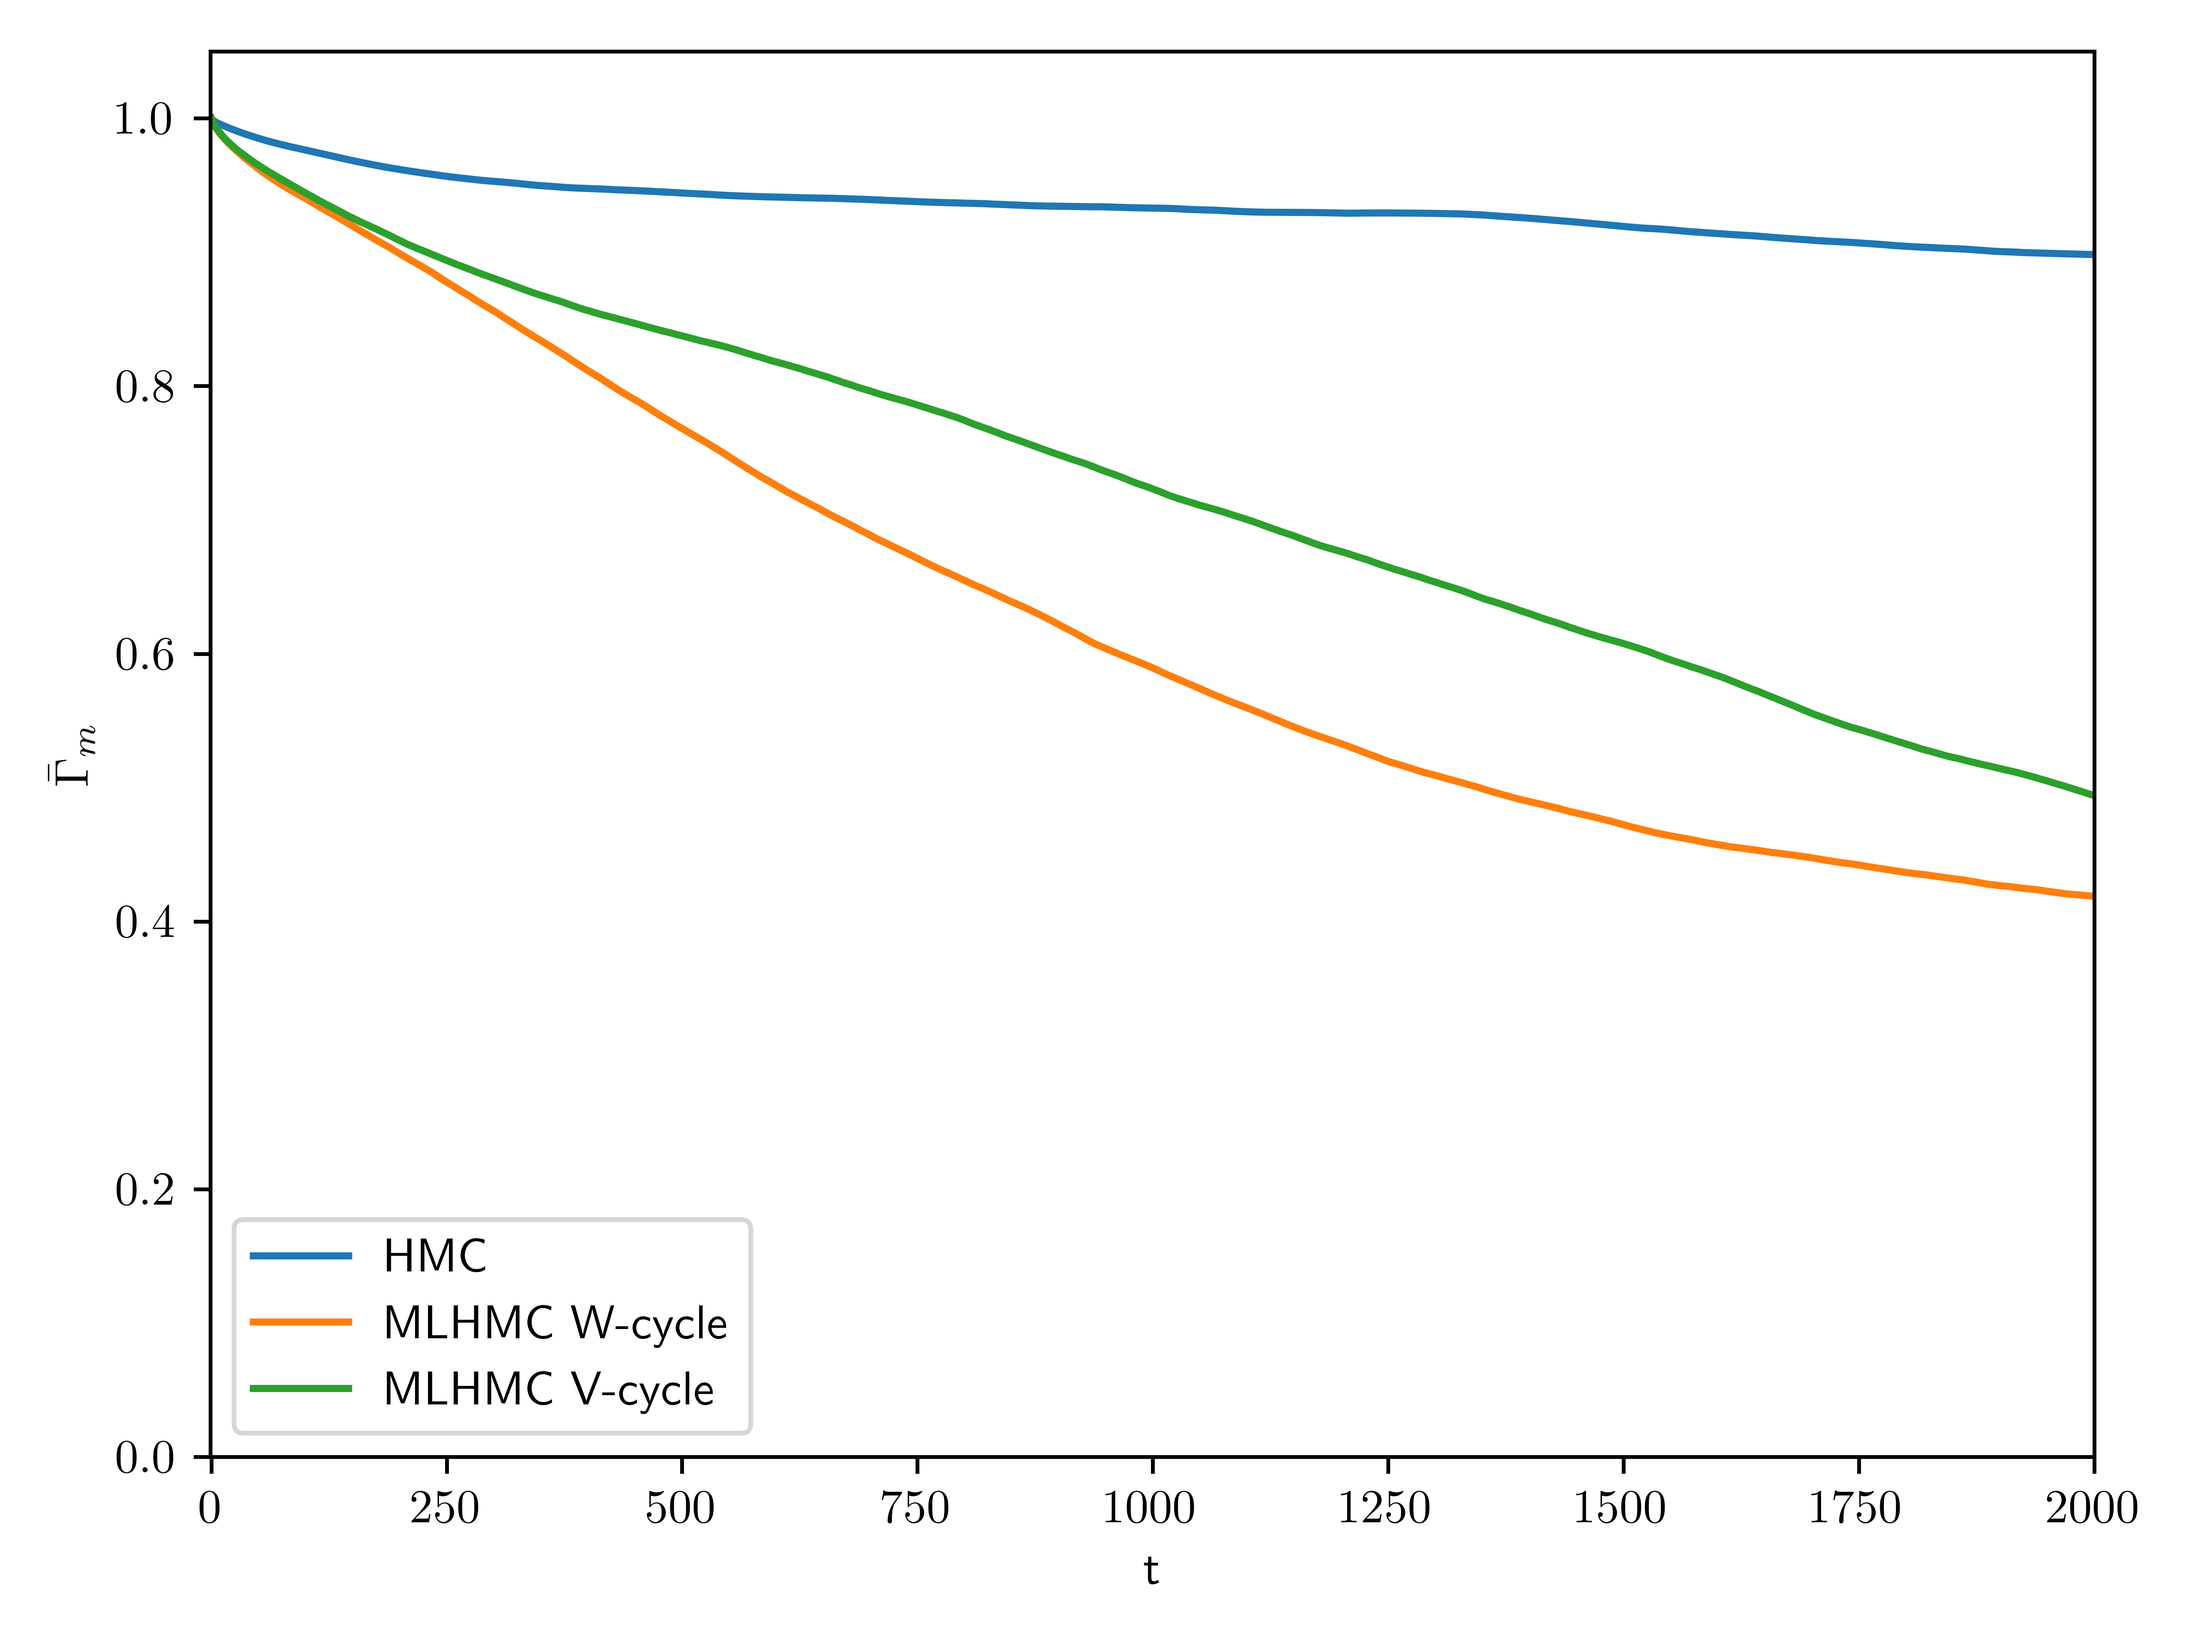
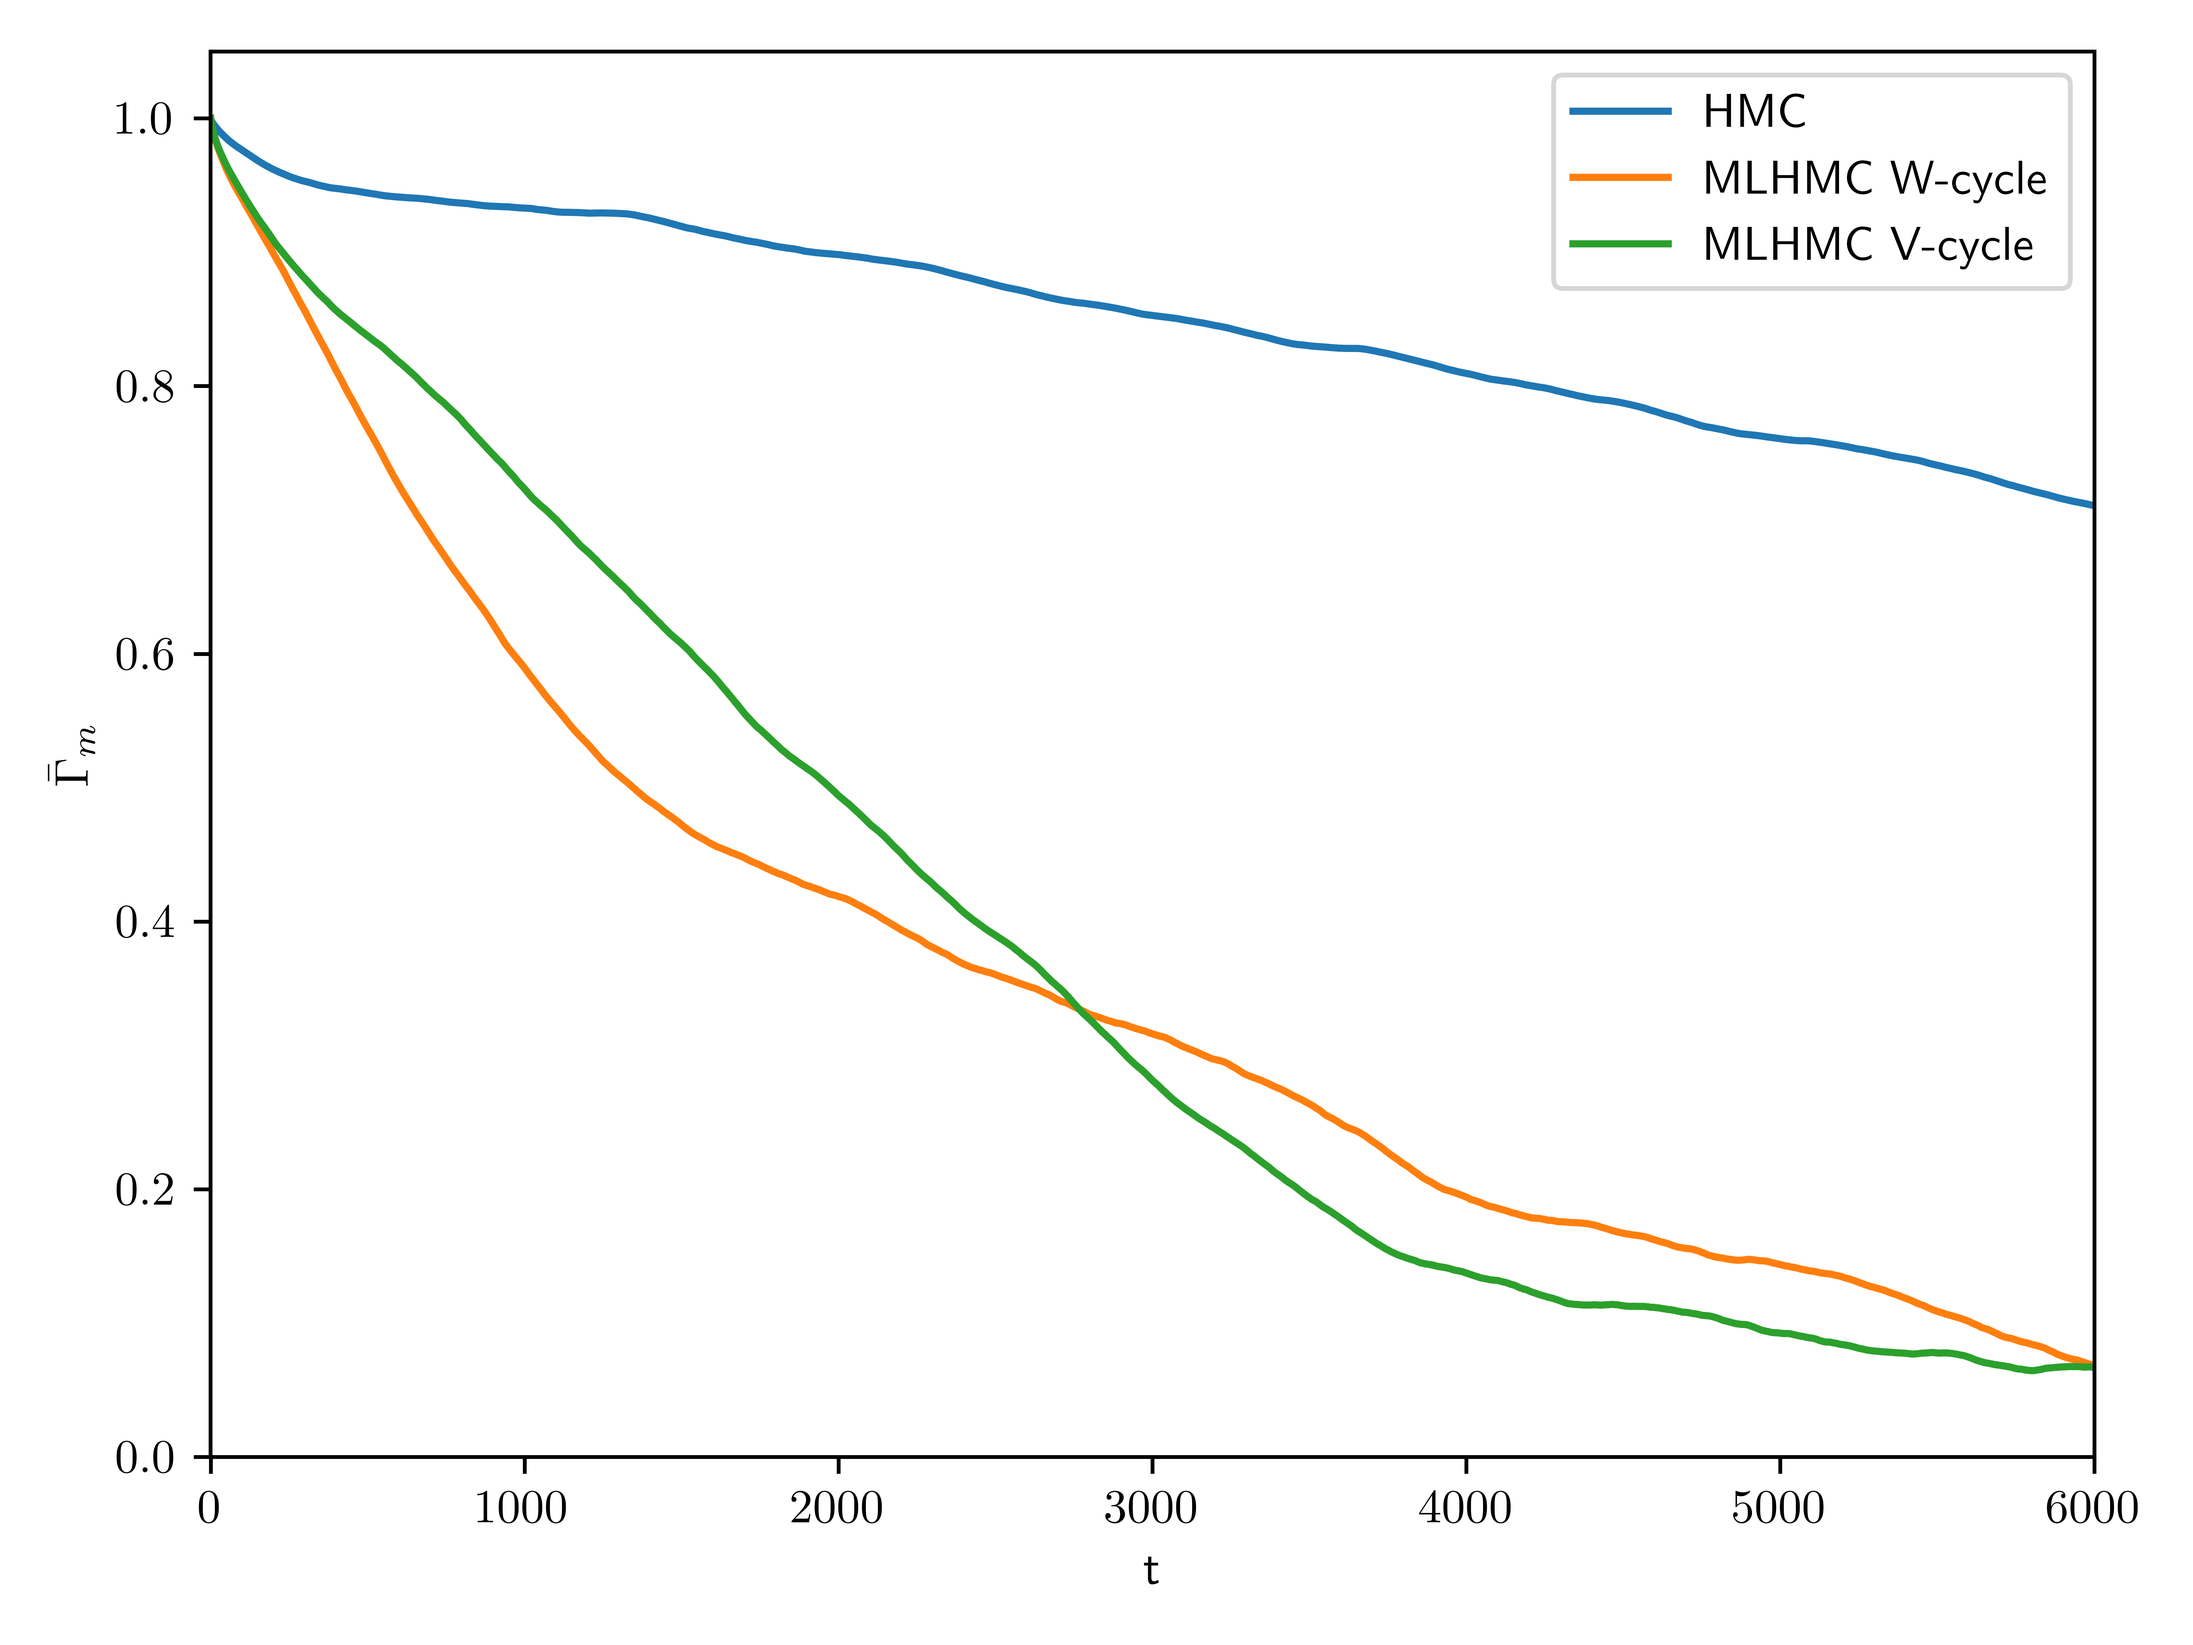
W cycle

diff --git a/plot/plot.py b/plot/plot.py
@@ -290,7 +290,7 @@ def info_plot(sub_folder_name, observable_name=magnetization_name):
                 ax_correl.set_xlabel(r"t")
                 ax_correl.set_ylabel(r"$\bar{\Gamma}_{m}$")
                 # ax_.set_yscale("log")
-                ax_correl.set_xlim(-1, 2000)
+                ax_correl.set_xlim(-1, 6000)
                 ax_correl.set_ylim(0, 1.05)
                 fig_correl.set_tight_layout(True)
 
